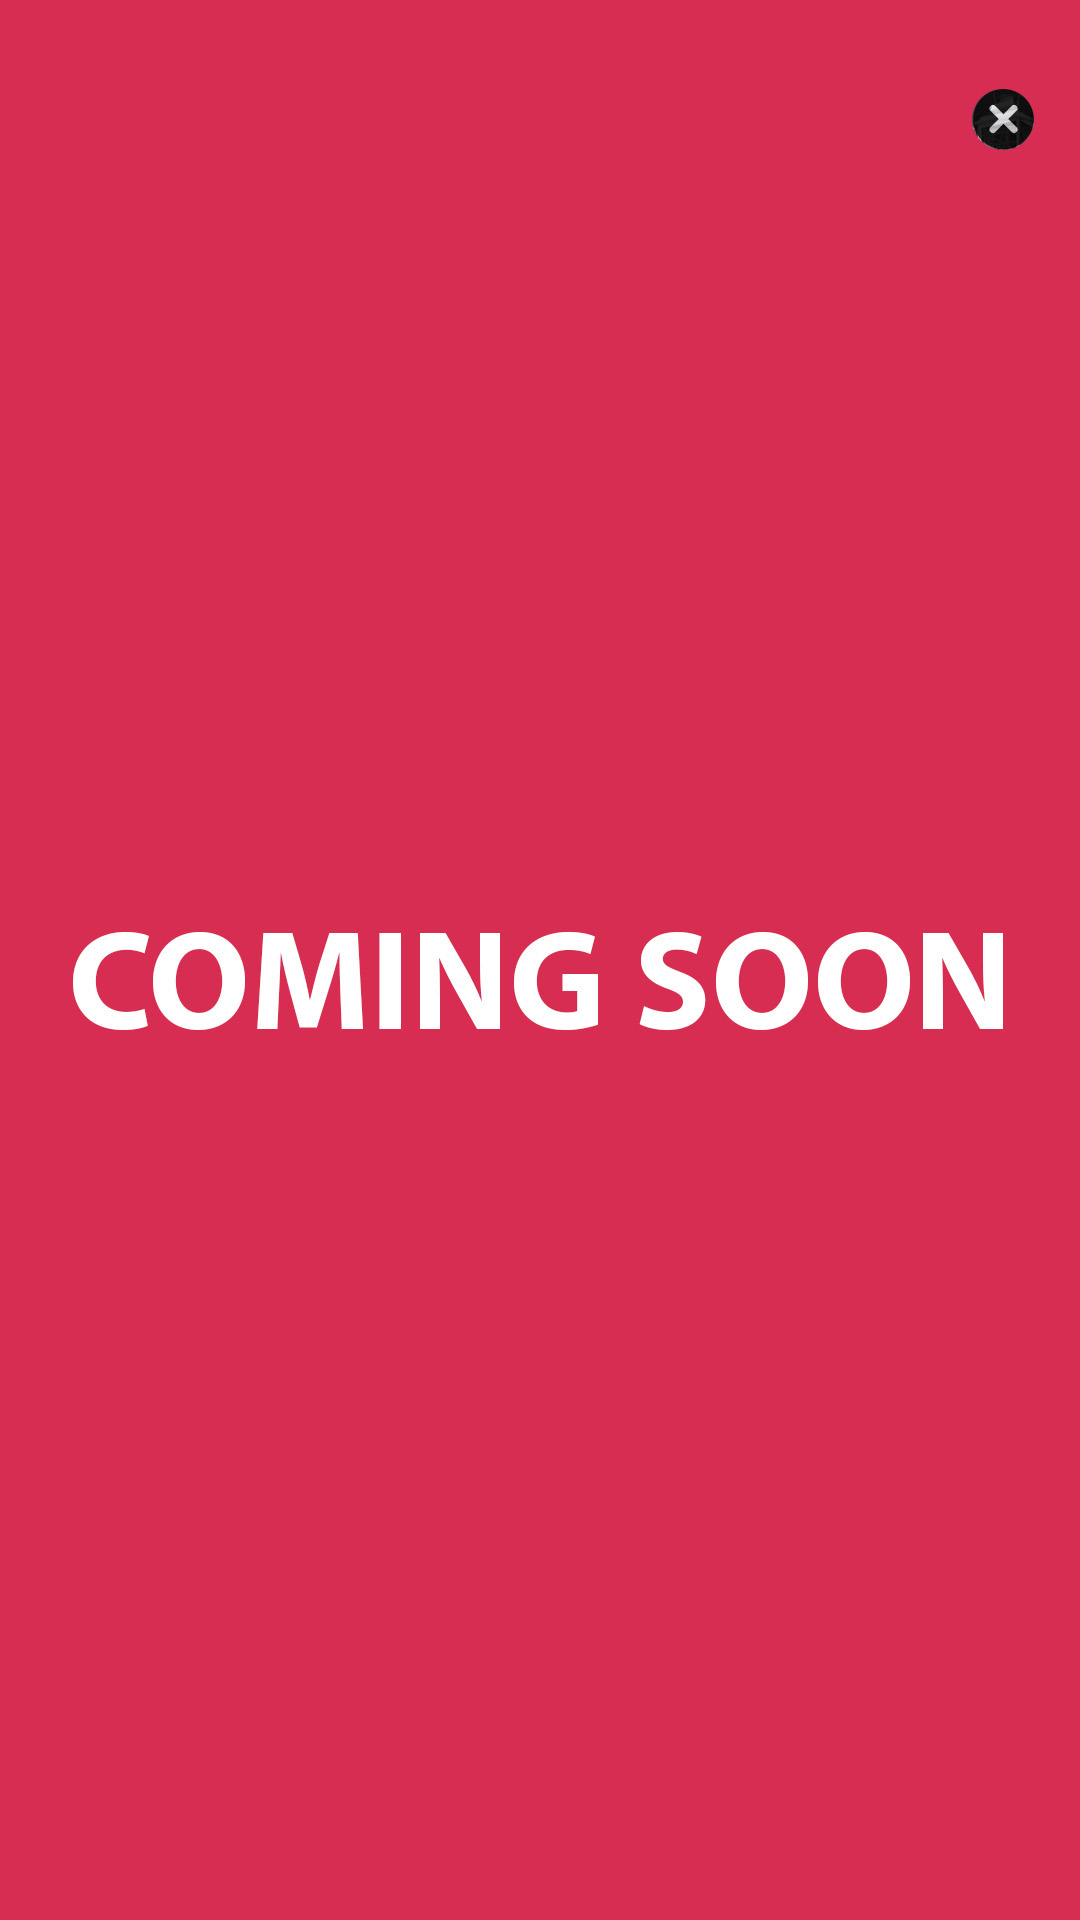
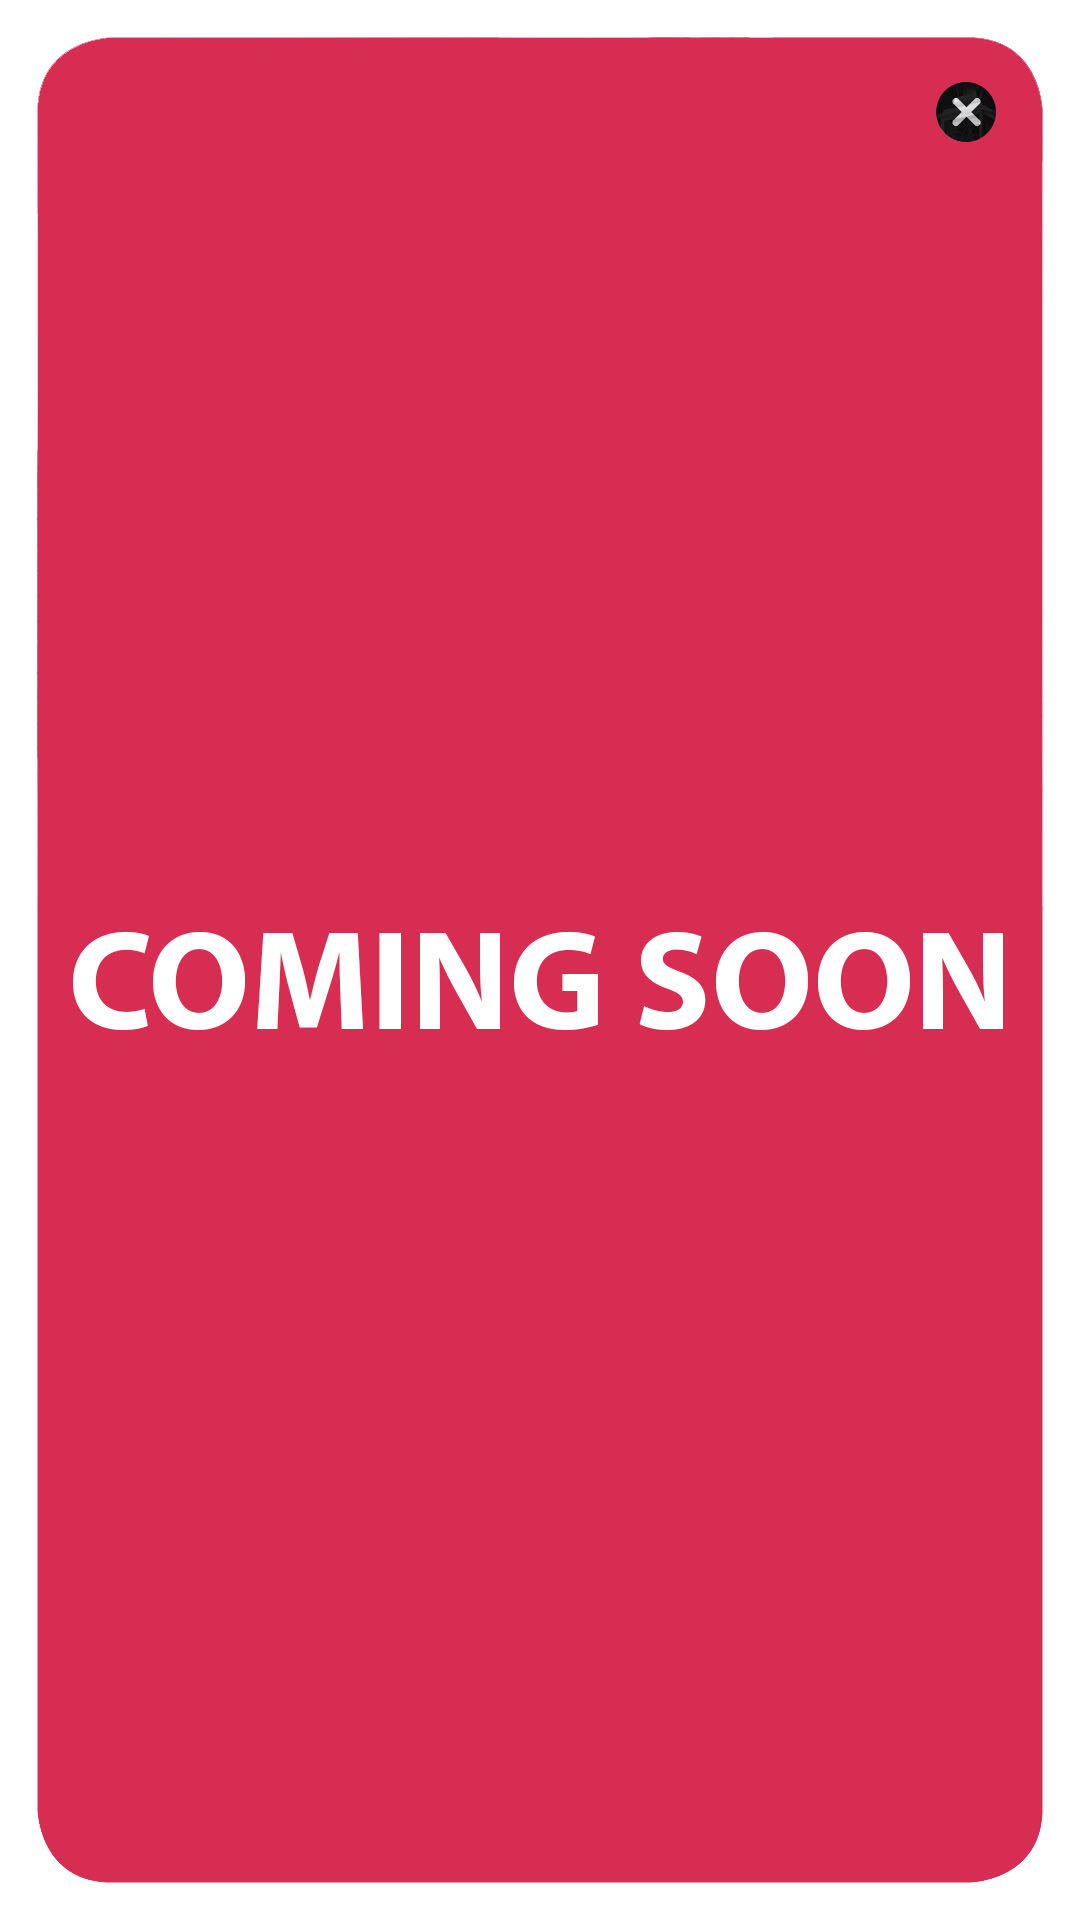
update

Changed region(s): [[0.0, 0.0, 1.0, 1.0]]

diff --git a/maincontents.htm b/maincontents.htm
@@ -27,59 +27,66 @@
     <div class="logo">
       <img src="" onclick="FC_ContentsCall('')">
     </div>
-     <div class="col-sm-4 header-navbox" style=""  onclick="FC_ContentsCall('Dance')">
-        <div style=""></div>
+     <div class="col-sm-4 header-navbox" style="margin-left: 75px;"  onclick="FC_ContentsCall('Dance')">
+        <div style=""><img src="assets/menu-box.png"></div>
       </div>
 
-      <div class="col-sm-4 header-navbox" style="" onclick="FC_ContentsCall('Selfie')">
-        <div style=""> </div>
+      <div class="col-sm-4 header-navbox" style="margin-left: 15px; " onclick="FC_ContentsCall('Selfie')">
+        <div style=""><img src="assets/menu-box.png"></div>
       </div>
 
-      <div class="col-sm-4 header-navbox" style="" onclick="FC_ContentsCall('Avatar')">
-        <div style=""></div>
+      <div class="col-sm-4 header-navbox" style="margin-left: 10px;" onclick="FC_ContentsCall('Avatar')">
+        <div style=""><img src="assets/menu-box.png"></div>
       </div>
   </header>
   <nav></nav>
   <section class="main-content">
     <div class="navigation">
 
-      <div class="col-sm-6 navigation-bo" style="" onclick="ShowPopupForm('product1')">
-        <div style=""></div>
+      <div class="col-sm-6 navigation-bo" style="" >
+        <div style="margin-left: auto;" onclick="ShowPopupForm('product1')">
+          <img src="assets/menu-box-2.png">
+        </div>
       </div>
       
-      <div class="col-sm-6 navigation-bo" style="" onclick="ShowPopupForm('product2')">
-        <div style=""></div>
+      <div class="col-sm-6 navigation-bo" style="" >
+        <div style="margin-right: auto;" onclick="ShowPopupForm('product2')"> <img src="assets/menu-box-2.png"></div>
       </div>
 
       <div class="col-sm-6 navigation-bo" style="" onclick="ShowPopupForm('product3')">
-        <div style=""></div>
+        <div style="margin-left: auto;"> 
+          <img src="assets/menu-box-2.png"></div>
       </div>
 
       <div class="col-sm-6 navigation-bo" style="" onclick="ShowPopupForm('product4')">
-        <div style=""> </div>
+        <div style="margin-right: auto;"> <img src="assets/menu-box-2.png"></div>
       </div>
 
-      <div class="col-sm-6 navigation-bo" style="" onclick="ShowPopupForm('product5')">
-        <div style=""></div>
+      <div class="col-sm-6 navigation-bo" style="" onclick="ShowPopupForm('product2')">
+        <div style="margin-left: auto;">
+          <img src="assets/menu-box-2.png"></div>
       </div>
 
-      <div class="col-sm-6 navigation-bo" style="" onclick="ShowPopupForm('product6')">
-        <div style=""></div>
+      <div class="col-sm-6 navigation-bo" style="" onclick="ShowPopupForm('product2')">
+        <div style="margin-right: auto;"> <img src="assets/menu-box-2.png"></div>
       </div>
 
-      <div class="col-sm-6 navigation-bo" style="" onclick="ShowPopupForm('product7')">
-        <div style=""></div>
+      <div class="col-sm-6 navigation-bo" style="" onclick="ShowPopupForm('product2')">
+        <div style="margin-left: auto;">
+          <img src="assets/menu-box-2.png"></div>
       </div>
 
-      <div class="col-sm-6 navigation-bo" style="" onclick="ShowPopupForm('product8')">
-        <div style=""></div>
+      <div class="col-sm-6 navigation-bo" style="" onclick="ShowPopupForm('product2')">
+        <div style="margin-right: auto;">
+          <img src="assets/menu-box-2.png">
+        </div>
       </div>
   
     </div>
   </section>
   <div id="dialog-overlay"></div>
   <div id="dialog-box">
-        <button class="close1"></button>
+        <button class="close1"><img src="assets/close.png"></button>
     <img src="assets/popup/product1.jpg" id="popupimage">
   </div>
 </main>
@@ -118,19 +125,32 @@
       height: 200px;
       padding: 0;
     }
-    .col-sm-4.header-navbox {
-    height: 400px;
+    .header-navbox {
+      display: block;
+      height: 345px;
+    /* padding: 20px; */
+    width: 300px;
+    cursor: pointer;
+    
+    margin-top: 40px;
   }
   .navigation{
     height: 1260px;
     padding-top: 100px;
     box-sizing: border-box;
   }
-  .col-sm-6.navigation-bo {
+   .navigation-bo {
     margin-top: 10px;
     height: 255px;
+    width: 540px
 }
-.col-sm-6.navigation-bo:hover{
+ .navigation-bo div{
+    width: 428px;
+    height: 255px;
+    display: block;
+    
+ }
+.navigation-bo:hover{
 cursor: pointer;
 }
 #popupimage{
@@ -144,7 +164,7 @@ cursor: pointer;
     width: 70px;
     height: 70px;
     position: absolute;
-    right: -156px;
+    right: -150px;
     z-index: 999999;
     top: 80px;
     background: transparent;
